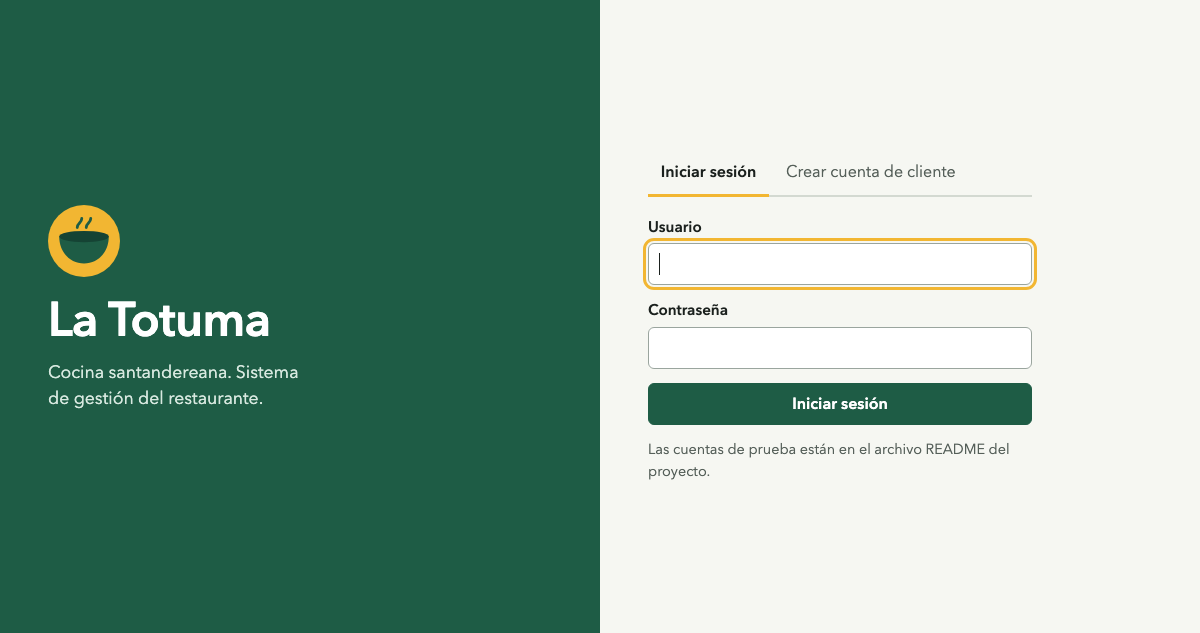
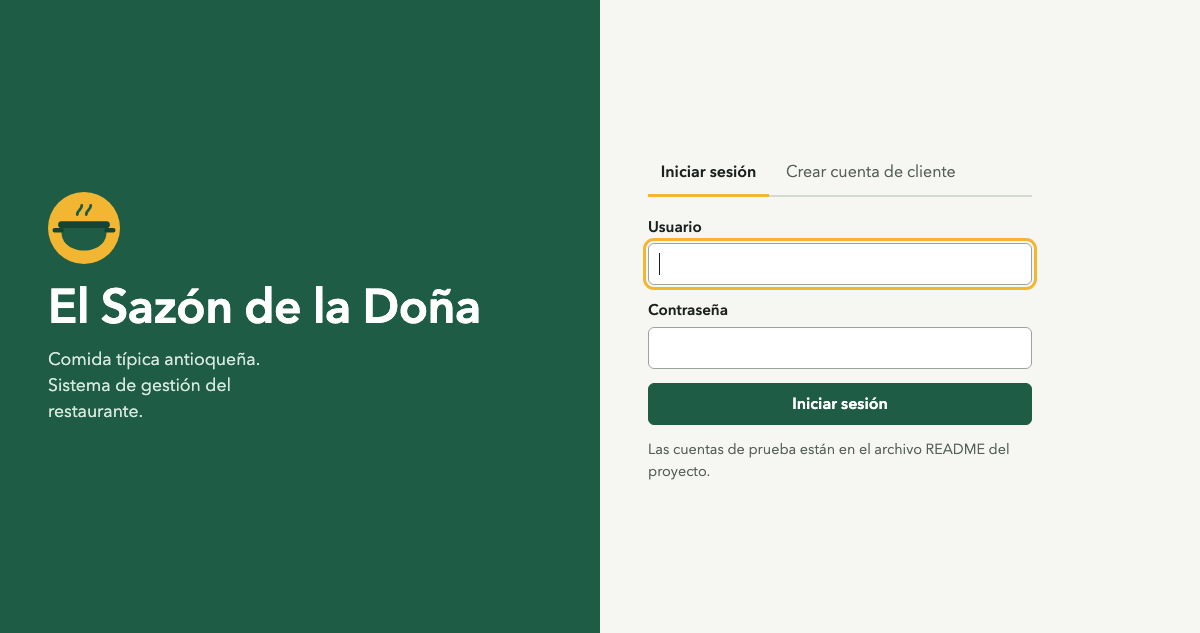
Identidad del restaurante: El Sazón de la Doña, comida típica antioqueña
- Nuevo nombre en la aplicación, la documentación y las pruebas.
- Carta de demostración antioqueña: bandeja paisa, sancocho trifásico, mondongo,
  calentao, empanadas, brevas con arequipe, entre otros.
- Logo de olla de barro y barra de navegación ajustada al nombre.
- El postre de regalo pasa a ser brevas con arequipe.
- Capturas de pantalla actualizadas.

Changed region(s): [[0.0308, 0.3002, 0.4008, 0.6603]]

diff --git a/js/datos.js b/js/datos.js
@@ -1,7 +1,7 @@
 'use strict';
 window.SIGR = window.SIGR || {};
 (function (S) {
-  const CLAVE = 'sigr.totuma.v1';
+  const CLAVE = 'sigr.sazon.v1';
 
   S.ahora = () => Date.now();
 
@@ -51,7 +51,7 @@ window.SIGR = window.SIGR || {};
   };
 
   const CUENTAS_DEMO = [
-    { nombre: 'Marta Rueda', usuario: 'admin', clave: 'Totuma2026*', rol: 'admin' },
+    { nombre: 'Marta Rueda', usuario: 'admin', clave: 'Sazon2026*', rol: 'admin' },
     { nombre: 'Julián Pabón', usuario: 'mesero', clave: 'Mesero2026*', rol: 'mesero' },
     { nombre: 'Laura Ardila', usuario: 'cliente', clave: 'Cliente2026*', rol: 'cliente', telefono: '3005550101' }
   ];
@@ -69,25 +69,25 @@ window.SIGR = window.SIGR || {};
 
   const CARTA_DEMO = [
     { categoria: 'Entradas', platos: [
-      ['Arepa santandereana', 'De maíz pelado con chicharrón molido, asada en tiesto.', 6000],
-      ['Hormigas culonas', 'Tostadas con sal. Porción para compartir.', 18000],
-      ['Yuca frita con ají', 'Con ají de la casa.', 9000]
+      ['Arepa con hogao', 'Arepa de maíz asada con hogao de tomate y cebolla.', 6000],
+      ['Chicharrón con arepa', 'Chicharrón carnudo de varias patas. Porción para compartir.', 18000],
+      ['Empanadas antioqueñas', 'Tres empanadas de papa y carne con ají.', 9000]
     ] },
     { categoria: 'Platos fuertes', platos: [
-      ['Cabro con pepitoria', 'Cabro al horno con pepitoria, yuca y arepa.', 46000],
-      ['Carne oreada', 'Res secada al sol y asada, con yuca y ají.', 38000],
-      ['Mute santandereano', 'Sopa de maíz, callo, costilla y verduras.', 29000],
-      ['Tamal santandereano', 'De maíz pelado con tres carnes y garbanzo.', 17000]
+      ['Bandeja paisa', 'Frijoles, arroz, carne molida, chicharrón, chorizo, huevo, tajada, aguacate y arepa.', 46000],
+      ['Sancocho trifásico', 'De res, cerdo y gallina, con yuca, papa, plátano y mazorca.', 38000],
+      ['Mondongo antioqueño', 'Con arroz, aguacate, banano y arepa.', 29000],
+      ['Calentao paisa', 'Frijoles y arroz del día anterior con huevo, carne y arepa.', 17000]
     ] },
     { categoria: 'Bebidas', platos: [
-      ['Limonada de panela', 'Con limón mandarino.', 7000],
-      ['Jugo de mora en agua', 'Fruta natural.', 8000],
+      ['Aguapanela con limón', 'Fría, con hielo.', 7000],
+      ['Jugo de lulo en agua', 'Fruta natural.', 8000],
       ['Refajo', 'Jarra pequeña.', 12000]
     ] },
     { categoria: 'Postres', platos: [
-      ['Oblea con arequipe', 'Dos obleas con arequipe y queso rallado.', 9000],
-      ['Bocadillo veleño con queso', 'Bocadillo de guayaba y queso fresco.', 8000],
-      ['Dulce de apio y cidra', 'Receta de Floridablanca.', 8500]
+      ['Brevas con arequipe', 'Brevas caladas con arequipe y queso fresco.', 9000],
+      ['Postre de natas', 'Receta de la casa.', 8000],
+      ['Mazamorra con bocadillo', 'Maíz peto con leche fría y bocadillo.', 8500]
     ] }
   ];
 

diff --git a/js/vistas/fidelizacion.js b/js/vistas/fidelizacion.js
@@ -7,13 +7,13 @@
     for (let i = 1; i <= S.fidelizacion.SELLOS; i++) {
       const ultimo = i === S.fidelizacion.SELLOS;
       casillas.push(h('li', { class: 'sello' + (i <= saldo.sellos ? ' sello--puesto' : '') + (ultimo ? ' sello--premio' : '') },
-        ultimo ? 'Postre' : i <= saldo.sellos ? h('img', { src: 'img/totuma.svg', alt: '', width: '30', height: '30' }) : String(i)));
+        ultimo ? 'Postre' : i <= saldo.sellos ? h('img', { src: 'img/logo.svg', alt: '', width: '30', height: '30' }) : String(i)));
     }
     return h('div', { class: 'tarjeta-sellos' },
       h('ol', { class: 'tarjeta-sellos__casillas', 'aria-label': saldo.sellos + ' de ' + S.fidelizacion.SELLOS + ' sellos' }, casillas),
       h('p', { class: 'tarjeta-sellos__texto' },
         'Llevas ', h('strong', null, S.dinero(saldo.avance)), ' de ', S.dinero(saldo.umbral), '. Te faltan ',
-        h('strong', null, S.dinero(saldo.falta)), ' para tu ', regalo ? regalo.nombre.toLowerCase() : 'postre', ' de regalo.'));
+        h('strong', null, S.dinero(saldo.falta)), ' para tu postre de regalo', regalo ? ': ' + regalo.nombre.toLowerCase() : '', '.'));
   }
 
   function vistaCliente(contenedor, usuario, estado) {
@@ -23,7 +23,7 @@
 
     contenedor.append(...[
       h('h1', null, 'Mi tarjeta'),
-      h('p', { class: 'entrada' }, 'Cada ' + S.dinero(saldo.umbral) + ' que consumes en La Totuma te ganas ' + (regalo ? 'una ' + regalo.nombre.toLowerCase() : 'un postre') + '. Cada sello vale ' + S.dinero(saldo.umbral / S.fidelizacion.SELLOS) + '.'),
+      h('p', { class: 'entrada' }, 'Cada ' + S.dinero(saldo.umbral) + ' que consumes en El Sazón de la Doña te ganas un postre de regalo' + (regalo ? ' (' + regalo.nombre.toLowerCase() + ')' : '') + '. Cada sello vale ' + S.dinero(saldo.umbral / S.fidelizacion.SELLOS) + '.'),
       estado.config.fidelizacion.activa ? null : h('p', { class: 'errores' }, 'El programa está en pausa. Tus consumos y regalos se conservan.'),
       saldo.disponibles ? h('p', { class: 'premio-listo' },
         h('strong', null, saldo.disponibles === 1 ? 'Tienes 1 postre de regalo.' : 'Tienes ' + saldo.disponibles + ' postres de regalo.'),
@@ -110,7 +110,7 @@
           S.avisar(r.ok ? 'Postre de regalo agregado' : r.errores[0], r.ok ? 'ok' : 'error');
           repintar();
         }
-      }, 'Agregar ' + (regalo ? regalo.nombre.toLowerCase() : 'postre') + ' de regalo') : 'Se agrega antes de enviar el pedido a cocina.');
+      }, 'Agregar postre de regalo' + (regalo ? ': ' + regalo.nombre.toLowerCase() : '')) : 'Se agrega antes de enviar el pedido a cocina.');
   });
 
   S.registrarVista({

diff --git a/pruebas/carta.pruebas.js b/pruebas/carta.pruebas.js
@@ -8,16 +8,16 @@
     S.seguridad.cerrarSesion();
     await S.seguridad.iniciarSesion(usuario, clave);
   }
-  S.comoAdmin = () => comoRol('admin', 'Totuma2026*');
+  S.comoAdmin = () => comoRol('admin', 'Sazon2026*');
   S.comoMesero = () => comoRol('mesero', 'Mesero2026*');
   S.comoCliente = () => comoRol('cliente', 'Cliente2026*');
 
-  const nuevo = () => ({ nombre: 'Pepitoria sola', descripcion: 'Porción', precio: 15000, categoriaId: 'cat-2', disponible: true });
+  const nuevo = () => ({ nombre: 'Frijoles con garra', descripcion: 'Porción', precio: 15000, categoriaId: 'cat-2', disponible: true });
 
   prueba(M, 'Administración crea, edita y elimina un plato', async () => {
     await S.comoAdmin();
     igual(S.carta.guardarPlato(nuevo()).ok, true);
-    const plato = S.datos.leer().platos.find((p) => p.nombre === 'Pepitoria sola');
+    const plato = S.datos.leer().platos.find((p) => p.nombre === 'Frijoles con garra');
     igual(S.carta.guardarPlato(Object.assign(nuevo(), { precio: 16000 }), plato.id).ok, true);
     igual(S.datos.leer().platos.find((p) => p.id === plato.id).precio, 16000);
     igual(S.carta.eliminarPlato(plato.id).ok, true);
@@ -29,7 +29,7 @@
     igual(S.carta.guardarPlato(Object.assign(nuevo(), { precio: -5 })).ok, false);
     igual(S.carta.guardarPlato(Object.assign(nuevo(), { precio: 'abc' })).ok, false);
     igual(S.carta.guardarPlato(Object.assign(nuevo(), { precio: 1500.5 })).ok, false);
-    igual(S.carta.guardarPlato(Object.assign(nuevo(), { nombre: 'carne OREADA' })).ok, false);
+    igual(S.carta.guardarPlato(Object.assign(nuevo(), { nombre: 'sancocho TRIFÁSICO' })).ok, false);
     igual(S.carta.guardarPlato(Object.assign(nuevo(), { categoriaId: 'no-existe' })).ok, false);
   });
 
@@ -40,7 +40,7 @@
       try { S.carta.guardarPlato(nuevo()); } catch (e) { bloqueado = true; }
       afirmar(bloqueado, 'debió bloquear');
     }
-    igual(S.datos.leer().platos.some((p) => p.nombre === 'Pepitoria sola'), false);
+    igual(S.datos.leer().platos.some((p) => p.nombre === 'Frijoles con garra'), false);
   });
 
   prueba(M, 'El cliente no ve los platos agotados', async () => {

diff --git a/pruebas/fidelizacion.pruebas.js b/pruebas/fidelizacion.pruebas.js
@@ -6,9 +6,9 @@
   const cliente = () => S.datos.leer().usuarios.find((u) => u.usuario === 'cliente');
   const saldo = () => S.fidelizacion.estadoCliente(S.datos.leer(), cliente().id);
 
-  function visita(cabros, mesaId) {
+  function visita(bandejas, mesaId) {
     const { pedido } = S.pedidos.abrir(mesaId || 'mesa-3');
-    S.pedidos.agregarPlato(pedido.id, 'cat-2-p1', cabros);
+    S.pedidos.agregarPlato(pedido.id, 'cat-2-p1', bandejas);
     S.pedidos.asignarCliente(pedido.id, TEL);
     S.pedidos.avanzar(pedido.id); S.pedidos.avanzar(pedido.id); S.pedidos.avanzar(pedido.id);
     S.caja.cobrar(pedido.id, 'tarjeta');
@@ -58,7 +58,7 @@
     const r = S.fidelizacion.canjear(id);
     igual(r.ok, true);
     const pedido = S.datos.leer().pedidos.find((p) => p.id === id);
-    igual(S.pedidos.totales(pedido, 0.08).total, 7000, 'solo se cobra la limonada');
+    igual(S.pedidos.totales(pedido, 0.08).total, 7000, 'solo se cobra la aguapanela');
     igual(saldo().disponibles, 0);
   });
 
@@ -96,7 +96,7 @@
     igual(saldo().consumo, 237000);
     const resumen = S.caja.resumenDia(S.datos.leer(), '2026-11-10');
     igual(resumen.regalos, 1);
-    igual(resumen.masVendidos.some((v) => v.nombre === 'Oblea con arequipe'), false);
+    igual(resumen.masVendidos.some((v) => v.nombre === 'Brevas con arequipe'), false);
   });
 
   prueba(M, 'No se quita el cliente de un pedido que ya tiene regalo', async () => {
@@ -128,7 +128,7 @@
     igual(S.fidelizacion.configurar({ activa: true, umbral: 150500, platoRecompensaId: 'cat-4-p2' }).ok, false);
     igual(S.fidelizacion.configurar({ activa: true, umbral: 150000, platoRecompensaId: 'no-existe' }).ok, false);
     igual(S.fidelizacion.configurar({ activa: true, umbral: 150000, platoRecompensaId: 'cat-4-p2' }).ok, true);
-    igual(S.fidelizacion.platoRegalo(S.datos.leer()).nombre, 'Bocadillo veleño con queso');
+    igual(S.fidelizacion.platoRegalo(S.datos.leer()).nombre, 'Postre de natas');
   });
 
   prueba(M, 'Un cliente no puede canjearse regalos a sí mismo', async () => {

diff --git a/css/estilos.css b/css/estilos.css
@@ -38,14 +38,14 @@ small { color: var(--tinta-suave); }
 .saltar:focus { left: .5rem; top: .5rem; }
 
 .barra {
-  display: flex; align-items: center; gap: 1.5rem; flex-wrap: wrap;
+  display: flex; align-items: center; gap: 1rem; flex-wrap: wrap;
   padding: .6rem 1.25rem;
   background: var(--hoja); color: #fff;
 }
-.barra__marca { display: flex; align-items: center; gap: .5rem; color: #fff; text-decoration: none; font-weight: 600; font-size: 1.15rem; }
-.barra__nav { display: flex; gap: .25rem; flex: 1; overflow-x: auto; }
+.barra__marca { display: flex; align-items: center; gap: .5rem; color: #fff; text-decoration: none; font-weight: 600; font-size: 1.1rem; white-space: nowrap; }
+.barra__nav { display: flex; gap: .15rem; flex: 1; flex-wrap: wrap; }
 .barra__enlace {
-  color: #fff; text-decoration: none; padding: .45rem .8rem; border-radius: var(--radio); white-space: nowrap;
+  color: #fff; text-decoration: none; padding: .45rem .65rem; border-radius: var(--radio); white-space: nowrap;
 }
 .barra__enlace:hover { background: var(--hoja-oscura); }
 .barra__enlace[aria-current="page"] { background: var(--maiz); color: var(--tinta); font-weight: 600; }

diff --git a/js/app.js b/js/app.js
@@ -28,7 +28,7 @@
       h('div', { class: 'marco' },
         h('header', { class: 'barra' },
           h('a', { class: 'barra__marca', href: '#/inicio' },
-            h('img', { src: 'img/totuma.svg', alt: '', width: '32', height: '32' }), 'La Totuma'),
+            h('img', { src: 'img/logo.svg', alt: '', width: '32', height: '32' }), 'El Sazón de la Doña'),
           h('nav', { class: 'barra__nav', 'aria-label': 'Secciones' },
             permitidas.map((v) => h('a', {
               href: '#/' + v.ruta, class: 'barra__enlace', 'aria-current': vista === v ? 'page' : null
@@ -47,7 +47,7 @@
         h('a', { class: 'boton', href: '#/inicio' }, 'Ir al inicio')));
       return;
     }
-    document.title = vista.titulo + ' | La Totuma';
+    document.title = vista.titulo + ' | El Sazón de la Doña';
     vista.render(contenido, usuario);
   }
 

diff --git a/js/vistas/acceso.js b/js/vistas/acceso.js
@@ -9,9 +9,9 @@
       raiz.replaceChildren(
         h('main', { class: 'acceso' },
           h('div', { class: 'acceso__marca' },
-            h('img', { src: 'img/totuma.svg', alt: '', width: '72', height: '72' }),
-            h('h1', null, 'La Totuma'),
-            h('p', null, 'Cocina santandereana. Sistema de gestión del restaurante.')),
+            h('img', { src: 'img/logo.svg', alt: '', width: '72', height: '72' }),
+            h('h1', null, 'El Sazón de la Doña'),
+            h('p', null, 'Comida típica antioqueña. Sistema de gestión del restaurante.')),
           h('div', { class: 'acceso__panel' },
             h('div', { class: 'pestanas', role: 'tablist' },
               pestana('entrar', 'Iniciar sesión'),

diff --git a/pruebas/seguridad.pruebas.js b/pruebas/seguridad.pruebas.js
@@ -99,7 +99,7 @@
     try { await S.seguridad.crearPersonal({ nombre: 'Nuevo Mesero', usuario: 'nuevo.mesero', clave: 'Clave1234', rol: 'mesero' }); } catch (e) { bloqueado = true; }
     afirmar(bloqueado, 'un mesero no crea cuentas');
     S.seguridad.cerrarSesion();
-    await S.seguridad.iniciarSesion('admin', 'Totuma2026*');
+    await S.seguridad.iniciarSesion('admin', 'Sazon2026*');
     igual((await S.seguridad.crearPersonal({ nombre: 'Nuevo Mesero', usuario: 'nuevo.mesero', clave: 'Clave1234', rol: 'cliente' })).ok, false);
     const r = await S.seguridad.crearPersonal({ nombre: 'Nuevo Mesero', usuario: 'nuevo.mesero', clave: 'Clave1234', rol: 'mesero' });
     igual(r.ok, true);

diff --git a/index.html b/index.html
@@ -5,8 +5,8 @@
   <meta name="viewport" content="width=device-width, initial-scale=1">
   <meta http-equiv="Content-Security-Policy" content="default-src 'self'; script-src 'self'; style-src 'self'; img-src 'self' data:; object-src 'none'; base-uri 'none'; form-action 'none'">
   <meta name="referrer" content="no-referrer">
-  <title>La Totuma | Sistema de gestión del restaurante</title>
-  <link rel="icon" href="img/totuma.svg" type="image/svg+xml">
+  <title>El Sazón de la Doña | Sistema de gestión del restaurante</title>
+  <link rel="icon" href="img/logo.svg" type="image/svg+xml">
   <link rel="stylesheet" href="css/estilos.css">
 </head>
 <body>

diff --git a/pruebas/pedidos.pruebas.js b/pruebas/pedidos.pruebas.js
@@ -74,7 +74,7 @@
   prueba(M, 'El pedido conserva el precio aunque la carta cambie', async () => {
     await S.comoAdmin();
     const id = S.pedidoDePrueba();
-    S.carta.guardarPlato({ nombre: 'Carne oreada', descripcion: '', precio: 45000, categoriaId: 'cat-2' }, 'cat-2-p2');
+    S.carta.guardarPlato({ nombre: 'Sancocho trifásico', descripcion: '', precio: 45000, categoriaId: 'cat-2' }, 'cat-2-p2');
     igual(S.pedidos.totales(leer(id), 0.08).total, 52000);
   });
 

diff --git a/pruebas/caja.pruebas.js b/pruebas/caja.pruebas.js
@@ -50,7 +50,7 @@
     igual(r.total, 104000);
     igual(r.porMetodo, { efectivo: 52000, tarjeta: 52000, transferencia: 0 });
     igual(r.promedio, 52000);
-    igual(r.masVendidos[0], { nombre: 'Limonada de panela', cantidad: 4 });
+    igual(r.masVendidos[0], { nombre: 'Aguapanela con limón', cantidad: 4 });
     igual(r.cancelados, 1);
     igual(S.caja.resumenDia(S.datos.leer(), '2026-11-09').total, 0);
   });

diff --git a/js/seguridad.js b/js/seguridad.js
@@ -5,7 +5,7 @@ window.SIGR = window.SIGR || {};
   const MAX_INTENTOS = 5;
   const BLOQUEO_MS = 5 * 60 * 1000;
   const INACTIVIDAD_MS = 15 * 60 * 1000;
-  const CLAVE_SESION = 'sigr.totuma.sesion';
+  const CLAVE_SESION = 'sigr.sazon.sesion';
 
   const PERMISOS = {
     admin: ['carta.ver', 'carta.editar', 'pedidos.gestionar', 'reservas.gestionar', 'caja.cobrar', 'caja.cerrar',
